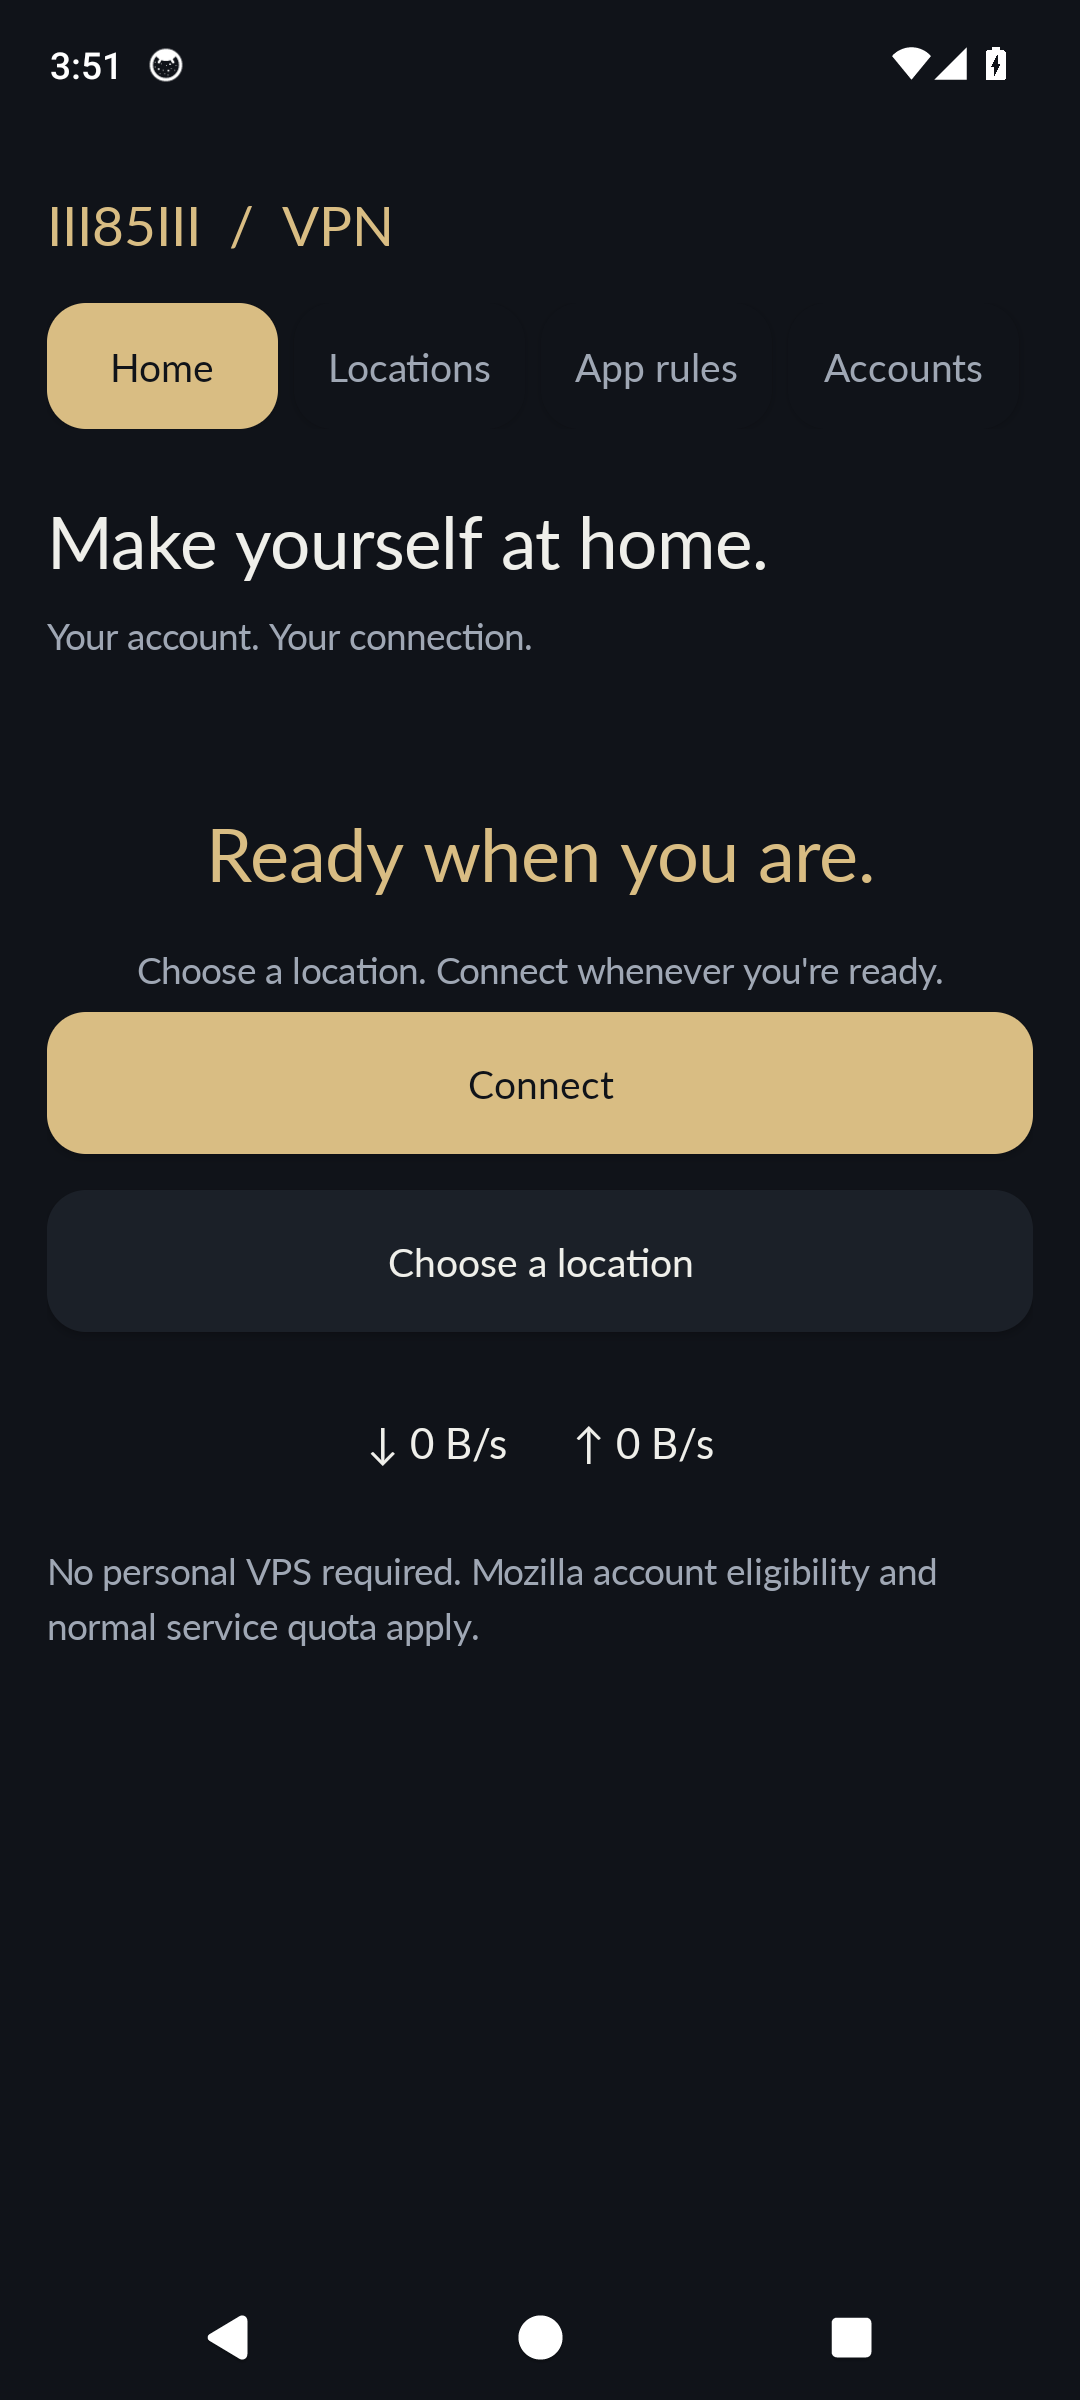
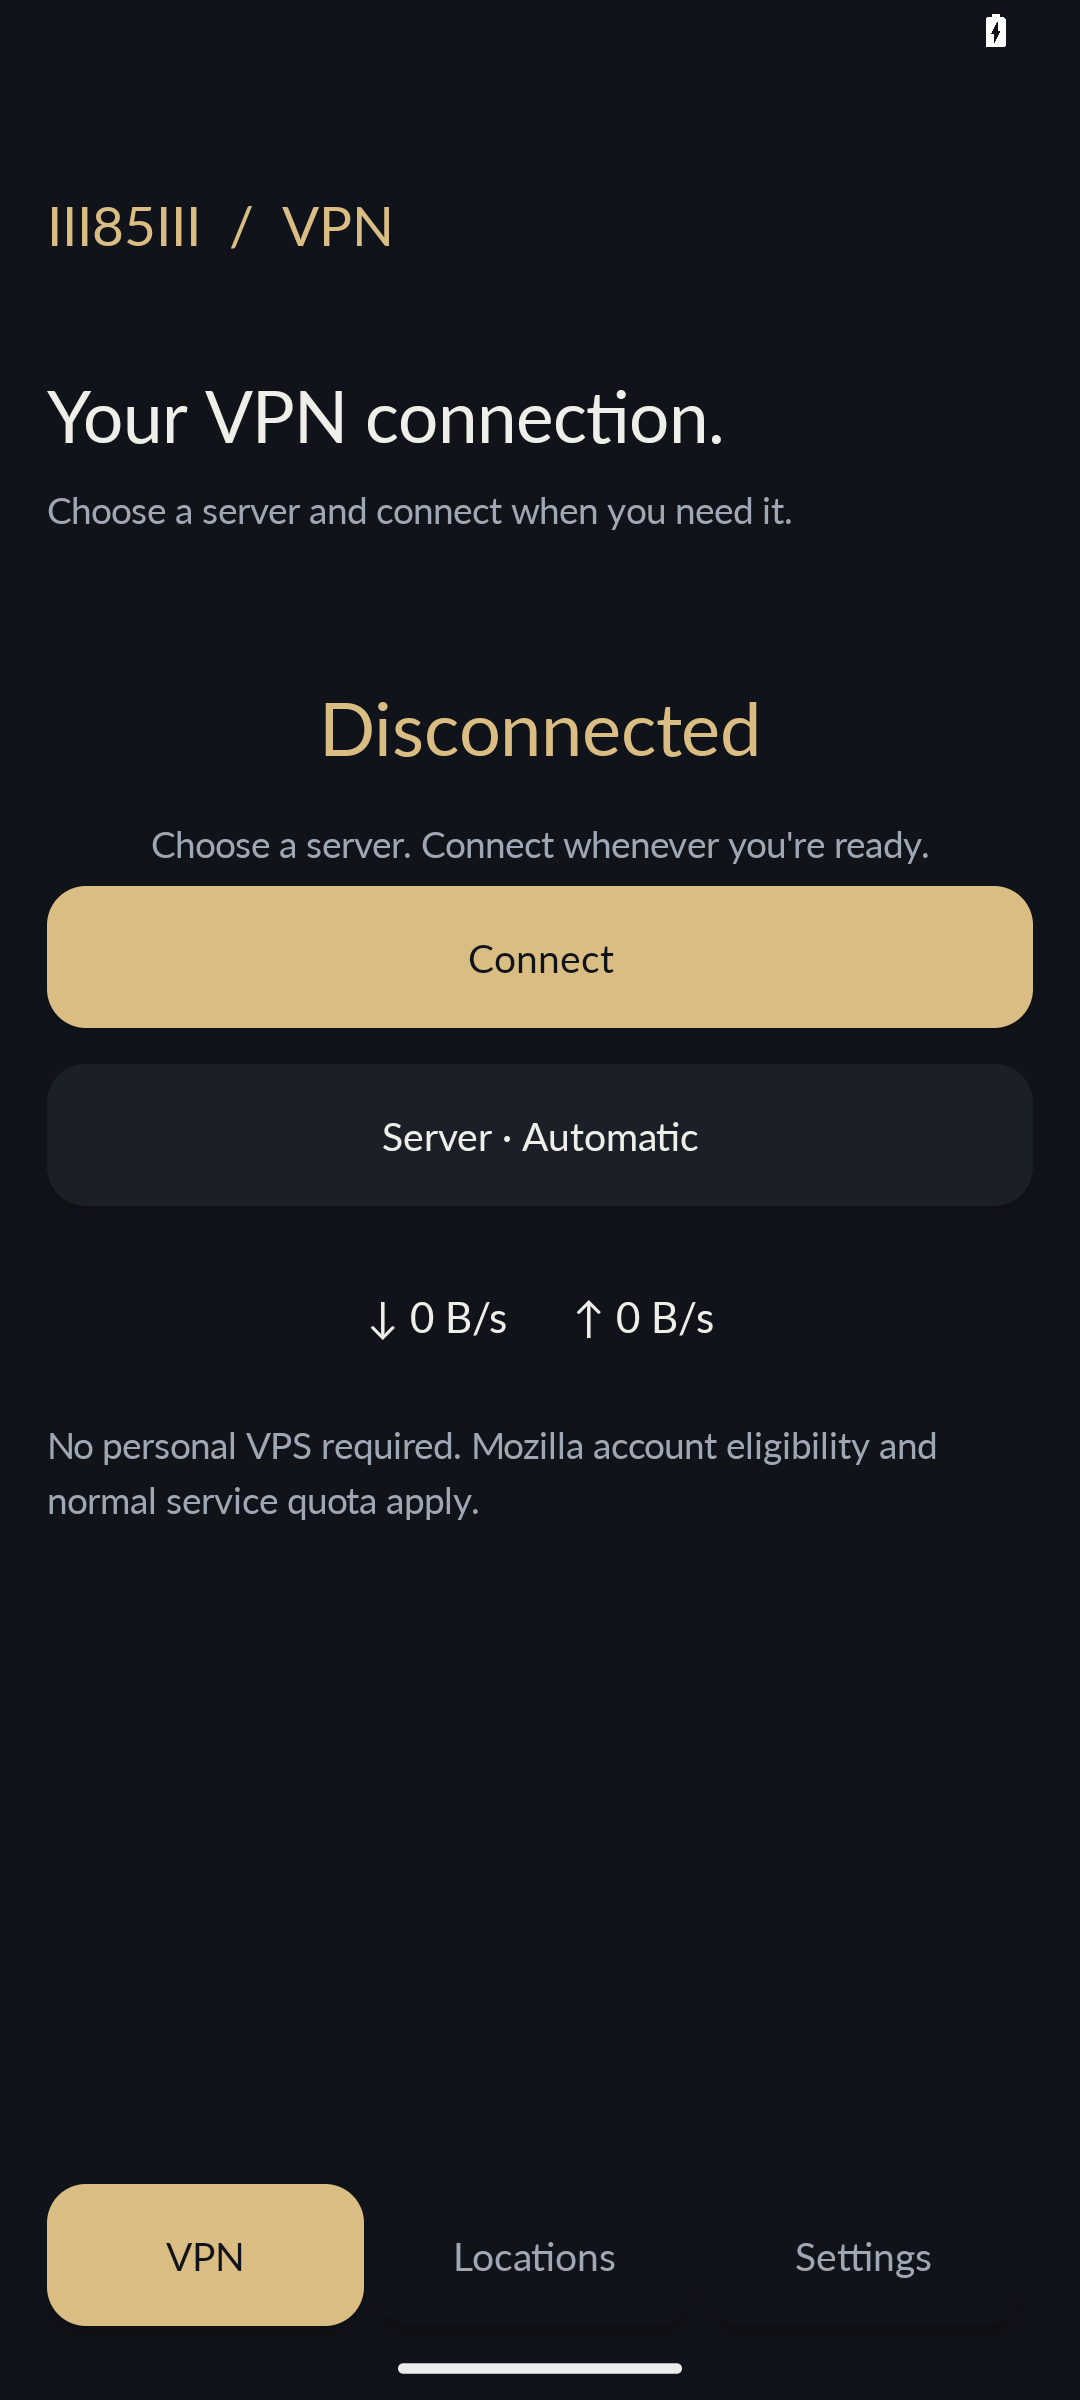
Document in-app updates and verified Windows and Android builds

diff --git a/mobile/VALIDATION.md b/mobile/VALIDATION.md
@@ -1,20 +1,24 @@
 # Mobile build validation
 
-Android 2.3.0 is distributed directly as a signed APK. The [Android build and lint run](https://github.com/III85III/Free-Vpn/actions/runs/40907281877) passed; the [device checks](https://github.com/III85III/Free-Vpn/actions/runs/40911148767) use fresh Google APIs emulators. Android app code is unchanged from commit `4119687`; later commits improve the test harness and documentation. The separate iOS 2.2.0 project passed the [earlier complete mobile workflow](https://github.com/III85III/Free-Vpn/actions/runs/40885073220). These results do not establish store approval or real-phone account/tunnel behavior.
+Android 2.3.1 at functional commit `f2482ba` passed the [complete Android build, lint and device workflow](https://github.com/III85III/Free-Vpn/actions/runs/40945840604). It uses fresh Android 8, 14 and 16 Google APIs emulators. The separate iOS 2.2.0 project passed the [earlier complete mobile workflow](https://github.com/III85III/Free-Vpn/actions/runs/40885073220). These results do not establish store approval or real-phone Mozilla account/egress behavior.
 
 | Platform | Completed checks | Still requires a real device |
 | --- | --- | --- |
-| Android | Release/debug APK builds; debug/release Android Lint; 14 connection-truth/lifecycle unit tests; fresh Android 8, 14 and 16 x86-64 emulator startup; authenticated local API; empty accounts and disconnected initial state; missing-token rejection; email/password-only initial form and cancellation; privacy page; portrait/landscape screenshots; higher-version in-place debug update retaining a non-secret private-file probe | Mozilla sign-in and verification, actual tunneled egress, app exclusions, background operation, VPN consent/revocation and network handover |
+| Android | Release/debug APK builds; debug/release Android Lint; 20 connection/lifecycle/update-policy unit tests; authenticated local API; empty accounts and disconnected initial state; missing-token rejection; initial sign-in form and cancellation; privacy page; portrait/landscape screenshots; real VPN interface answering synthetic DNS from a separate test-app UID; in-app PackageInstaller update with Android confirmation and preserved synthetic private data | Real Mozilla sign-in/verification and upstream egress, app exclusions, background survival, consent/revocation on physical devices and network handover |
 | iOS | Six synthetic packet-adapter tests, Go framework build, Swift/Objective-C compilation, Simulator and device builds, unsigned IPA with app and extension | Valid Apple signing and capabilities, installation, account flow, packet-flow egress, extension memory/background behavior and network handover |
 
 The Android app targets API 36, supports Android 8.0+, and includes arm64 and x86-64 native libraries. Both libraries have 16 KB ELF load alignment and aligned RELRO endpoints. ZIP alignment was checked. This does not establish testing on physical 16 KB devices. The release is not debuggable, contains no debug screenshot override, and includes privacy/font/dependency notices. Known private account/configuration/signing filenames were checked against the APK contents.
 
 APK v2/v3 signatures were verified. Its certificate matches the previously delivered Android 2.2.0 APK, allowing same-package updates. The in-place emulator update uses two debug APKs from the same CI build and a synthetic local file; it does not test preservation of real Mozilla sessions or install the private release signing key in CI.
 
[2 lines of base64/hex data omitted]
+
+The native TUN test uses a synthetic DNS name and fake address; it does not contact Mozilla or prove upstream traffic. The updater test stages a higher-version debug APK, checks its package/signature, invokes the app's PackageInstaller session and confirms installation through Android's own UI. It does not use the production signing key in CI. Debug-only fixture entry points are absent from the distributed APK.
+
[1 lines of base64/hex data omitted]
 
 The iOS app and extension use version 2.2.0, build 22000. The application uses the public Network Extension packet-flow API. The unsigned IPA contains no provisioning profile, signing key, preconfigured account or user session. It cannot be installed as an ordinary signed App Store/TestFlight app.
 
 The emulator check refuses physical devices and is restricted to a fresh CI image. No real account was supplied to the CI jobs. Local build logs, test tokens, profiles, signing credentials, generated AAR/frameworks and APK/IPA outputs are excluded from source publication.
 
-Store preparation remains separate: current target/API and packaging requirements, developer accounts, signing/provisioning, privacy and VPN disclosures, release metadata and real-device QA must be completed before submission. The production Windows release remains separate from these mobile development artifacts.
+Store preparation remains separate: developer accounts, signing/provisioning, privacy and VPN disclosures, store-specific update mechanisms and real-device QA must be completed before submission. The unsigned iOS artifact remains separate from the Windows and Android direct downloads.

diff --git a/.github/README.md b/.github/README.md
@@ -12,8 +12,8 @@ Free VPN is a free application by **III85III** for Windows and Android. Sign in 
 
 | Platform | Download | Requirements |
 | --- | --- | --- |
-| Windows | [Windows installer](https://github.com/III85III/Free-Vpn/releases/download/v2.2.0/III85III-VPN-Setup.exe) | Windows x64 |
-| Android | [Android APK](https://github.com/III85III/Free-Vpn/releases/download/android-v2.3.0/III85III-VPN.apk) | Android 8.0+, arm64 or x86-64 |
+| Windows | [Windows installer](https://github.com/III85III/Free-Vpn/releases/download/v2.3.1/III85III-VPN-Setup.exe) | Windows x64 · 2.2.1 |
+| Android | [Android APK](https://github.com/III85III/Free-Vpn/releases/download/v2.3.1/III85III-VPN.apk) | Android 8.0+, arm64 or x86-64 · 2.3.1 |
 
 Android is distributed directly here. Real-phone Mozilla sign-in and tunnel routing still need validation; see [completed checks and limitations](../mobile/VALIDATION.md). There is no signed App Store version yet.
 
@@ -21,7 +21,7 @@ Android is distributed directly here. Real-phone Mozilla sign-in and tunnel rout
 
 ## Getting started
 
-1. Download **III85III-VPN-Setup.exe** from the [Windows release](https://github.com/III85III/Free-Vpn/releases/tag/v2.2.0).
+1. Download **III85III-VPN-Setup.exe** from the [current release](https://github.com/III85III/Free-Vpn/releases/tag/v2.3.1).
 2. Run Setup, then open **III85III VPN**. The interface starts in English.
 3. Add your own Mozilla account using your Mozilla password. If Mozilla requests a verification code, enter it in the separate code window.
 4. Choose your connection mode and location, then connect. Use **Check connection** to inspect the connection result.
@@ -31,8 +31,8 @@ Windows x64 is the supported platform. The installer keeps your saved account da
 ### On Android
 
 1. Download **III85III-VPN.apk** using the Android link above. Allow installation from the browser or file manager when Android asks.
-2. Open the app and add your own Mozilla account in **Accounts**. Verification codes appear in a separate step when requested.
-3. Choose a location, read the connection disclosure and approve Android's VPN permission. **App rules** lets selected applications connect directly.
+2. Open **Settings → Mozilla accounts** and add your own account. Verification codes appear in a separate step when requested.
+3. Choose a location, read the connection disclosure and approve Android's VPN permission. **Split tunneling** lets selected applications connect directly.
 4. Disconnect in Home, the persistent VPN notification or Android VPN settings. Manual disconnect does not trigger automatic reconnection.
 
 Install future APK updates over the existing app to retain its local data. The release uses the same III85III signing identity as Android 2.2.0. Keep accounts and diagnostic files private. A running VPN indicator alone does not prove that every application or protocol is protected.
@@ -45,6 +45,12 @@ Android includes latency sorting, location search, account management, private a
 </p>
 
 Screenshots show a fresh test installation with no account or active connection.
+
+### Updates from the app
+
+Windows and Android check public version information on GitHub and show a prompt when a newer version is available. Download starts when you choose it; no personal VPS is needed. Windows opens the verified installer after closing the VPN. Android checks the APK's package, version and signing identity and asks for installation confirmation.
+
+Use **Settings → Check for updates** on Windows or **Settings → App updates** on Android. The first upgrade from Windows 2.2.0 or Android 2.3.0 must be installed once using the downloads above: those older builds do not contain the updater. Later releases can be obtained from inside the app. Keep enough free space for downloading and installation.
 
 ## Features
 
@@ -61,6 +67,9 @@ Screenshots show a fresh test installation with no account or active connection.
 | Keyboard navigation | Use Enter/Space on custom controls and jump between pages with Ctrl+1 through Ctrl+6. |
 | Search shortcuts | Press Ctrl+F to search locations or the current app list; Escape clears the filter. F1 opens Help. |
 | Installer recovery | Prepare an update before replacing the previous installation, with rollback if directory promotion fails. |
+| In-app updates | Check for a newer platform version, download it and start installation from the app. |
+| Account selection | Choose a saved account explicitly; the Windows home button no longer requires an account to be active before connecting. |
+| Service repair | Repair the Windows VPN service from Settings with administrator approval. |
 
 Latency measurements describe response time at the moment of testing; they are not a guarantee of download speed.
 
@@ -86,7 +95,7 @@ Latency measurements describe response time at the moment of testing; they are n
 
 **Is it free?** The application is free. Service eligibility, regional availability, quotas and renewal dates come from Mozilla. Installing this app does not create an unlimited entitlement or bypass those limits.
 
-**Does it work on Android, iOS, macOS or Linux?** The published 2.2.0 installer is Windows x64. Native Android and iOS development projects are now in [mobile](../mobile/README.md), with separate build and validation status. They are not App Store/Google Play releases. macOS and Linux applications remain future plans.
+**Does it work on Android, iOS, macOS or Linux?** Windows and Android have direct downloads above. Android supports arm64 and x86-64. The [iOS project](../mobile/README.md) still needs Apple signing before normal installation. These are not App Store/Google Play approvals. macOS and Linux applications remain future plans.
 
 **Does it guarantee every application or protocol will work?** No. Service restrictions apply. Arbitrary UDP, a verified kill switch and enforced Telegram-bot-only routing are not promised by this release.
 

diff --git a/docs/readme/README.fa.md b/docs/readme/README.fa.md
@@ -14,9 +14,13 @@
 
 ## شروع استفاده
 
-[نصبکنندهٔ Windows](https://github.com/III85III/Free-Vpn/releases/download/v2.2.0/III85III-VPN-Setup.exe) · [دانلود APK اندروید](https://github.com/III85III/Free-Vpn/releases/download/android-v2.3.0/III85III-VPN.apk)
+[نصبکنندهٔ Windows](https://github.com/III85III/Free-Vpn/releases/download/v2.3.1/III85III-VPN-Setup.exe) · [دانلود APK اندروید](https://github.com/III85III/Free-Vpn/releases/download/v2.3.1/III85III-VPN.apk)
 
-در Android 8 به بالا، APK را نصب کن، از Accounts حساب خودت را اضافه کن و سپس مجوز VPN را تأیید کن. برنامههای انتخابشده در App rules مستقیم وصل میشوند. برای حفظ دادهها، نسخهٔ جدید را روی نسخهٔ قبلی نصب کن. [نتیجهٔ تستها و محدودیتهای موبایل](../../mobile/VALIDATION.md) را ببین؛ ورود واقعی و مسیر اتصال هنوز روی گوشی مالک آزمایش نشدهاند.
+در Android 8 به بالا، APK را نصب کن، از Settings → Mozilla accounts حساب خودت را اضافه کن و سپس مجوز VPN را تأیید کن. برنامههای انتخابشده در بخش Split tunneling مستقیم وصل میشوند. برای حفظ دادهها، نسخهٔ جدید را روی نسخهٔ قبلی نصب کن. [نتیجهٔ تستها و محدودیتهای موبایل](../../mobile/VALIDATION.md) را ببین؛ اتصال واقعی به موزیلا هنوز به آزمون مستقل نیاز دارد.
+
+### بهروزرسانی داخل برنامه
+
+در ویندوز از Settings → Check for updates و در اندروید از Settings → App updates استفاده کن. برنامه نسخهٔ جدید را روی گیتهاب بررسی میکند، پیام نشان میدهد و دانلود و شروع نصب را داخل برنامه انجام میدهد؛ VPS شخصی لازم نیست. نصب نهایی با تأیید کاربر انجام میشود و حسابها با ارتقای معمول حفظ میشوند. نسخههای قدیمی یک بار باید به این نسخه ارتقا پیدا کنند تا قابلیت آپدیت داخلی را داشته باشند.
 
 ۱. از [آخرین انتشار رسمی](https://github.com/III85III/Free-Vpn/releases/latest)، فایل III85III-VPN-Setup.exe را بگیر و نصب کن.
 

diff --git a/docs/VALIDATION.md b/docs/VALIDATION.md
@@ -1,4 +1,14 @@
-# Validation — III85III VPN 2.2.0
+# Validation
+
+## Windows 2.2.1 and Android 2.3.1
+
+Windows passed 48 API/state checks, a saved-account home-button integration fixture, 528 layout checks, 18 latency checks, 21 sign-in lifecycle checks, five verification-conflict/stale-prompt checks, six update-metadata checks, 14 polling checks, 29 keyboard checks and 33 installer-recovery checks. Run `tools/test.ps1` to reproduce the native suites.
+
+An actual empty-profile startup smoke run verified the unchanged 2.2.0 backend, loopback authentication, empty accounts, settings persistence and clean shutdown. It did not connect a real account, install a Windows TUN service or verify Windows egress. The candidate's backend executable hashes matched the preserved build. The installer inventory contained no known private account, session or signing files.
+
+Android passed release/debug builds, lint, 20 unit tests and fresh Android 8/14/16 emulator checks including real native TUN synthetic DNS and an in-app, user-confirmed PackageInstaller update. See [mobile validation](../mobile/VALIDATION.md) for evidence and limits. These are direct-download releases, not store approvals or a guarantee that every account/network works.
+
+## Earlier validation: 2.2.0
 
 The release engine is built from the owner's current Go source. Its hashes are recorded in the packaged core/manifest.json. The earlier original-engine hashes describe historical builds, not the current binaries.
 

diff --git a/mobile/README.md b/mobile/README.md
@@ -37,7 +37,9 @@ An unsigned IPA cannot be installed as an ordinary App Store/TestFlight applicat
 
 ## Validation limits
 
-Android 2.3.0 and unsigned iOS 2.2.0 have separate build and validation results. See [validation details](VALIDATION.md) for the exact checks and remaining device/store work.
+Android 2.3.1 and unsigned iOS 2.2.0 have separate build and validation results. See [validation details](VALIDATION.md) for the exact checks and remaining device/store work.
+
+Android has three main tabs, saved-account selection and direct-app rules in Settings. In-app updates use public GitHub metadata, verified downloads and Android's user-confirmed PackageInstaller. This direct GitHub build requests permission to install updates; a future Google Play build must use Play's update mechanism instead.
 
 The Apple packet adapter has synthetic packet/DNS/TCP relay tests. The Android application has connection-state unit tests and Android Lint. Successful compilation and these tests do not establish real Mozilla sign-in, quota display, device routing, network handover or background survival. Real-device tests remain required before store publication. No verified kill-switch or universal sign-in fix is claimed.
 

diff --git a/docs/CHANGELOG.md b/docs/CHANGELOG.md
@@ -1,5 +1,14 @@
 # Changelog
 
+## Windows 2.2.1 / Android 2.3.1
+
+- Add platform-specific GitHub update checks, update prompts, verified downloads and user-confirmed installation from the app. No personal VPS is required.
+- Correct the Windows saved-account preflight and keep connection/tunnel errors visible during polling.
+- Reconcile verification HTTP 409 with the current sign-in state and prevent duplicate answers to a stale prompt.
+- Add explicit account selection, Windows VPN-service repair and a limited connection-status export.
+- Simplify Android navigation to VPN, Locations and Settings, with consistent dialogs and account/direct-app settings.
+- Validate native TUN synthetic DNS and actual in-app PackageInstaller updates on Android 8, 14 and 16. Real Mozilla egress and Windows routing remain separate device checks.
+
 ## Frontend reliability
 
 - Fetch diagnostic logs only while Help is open and refresh them independently of connection status.
